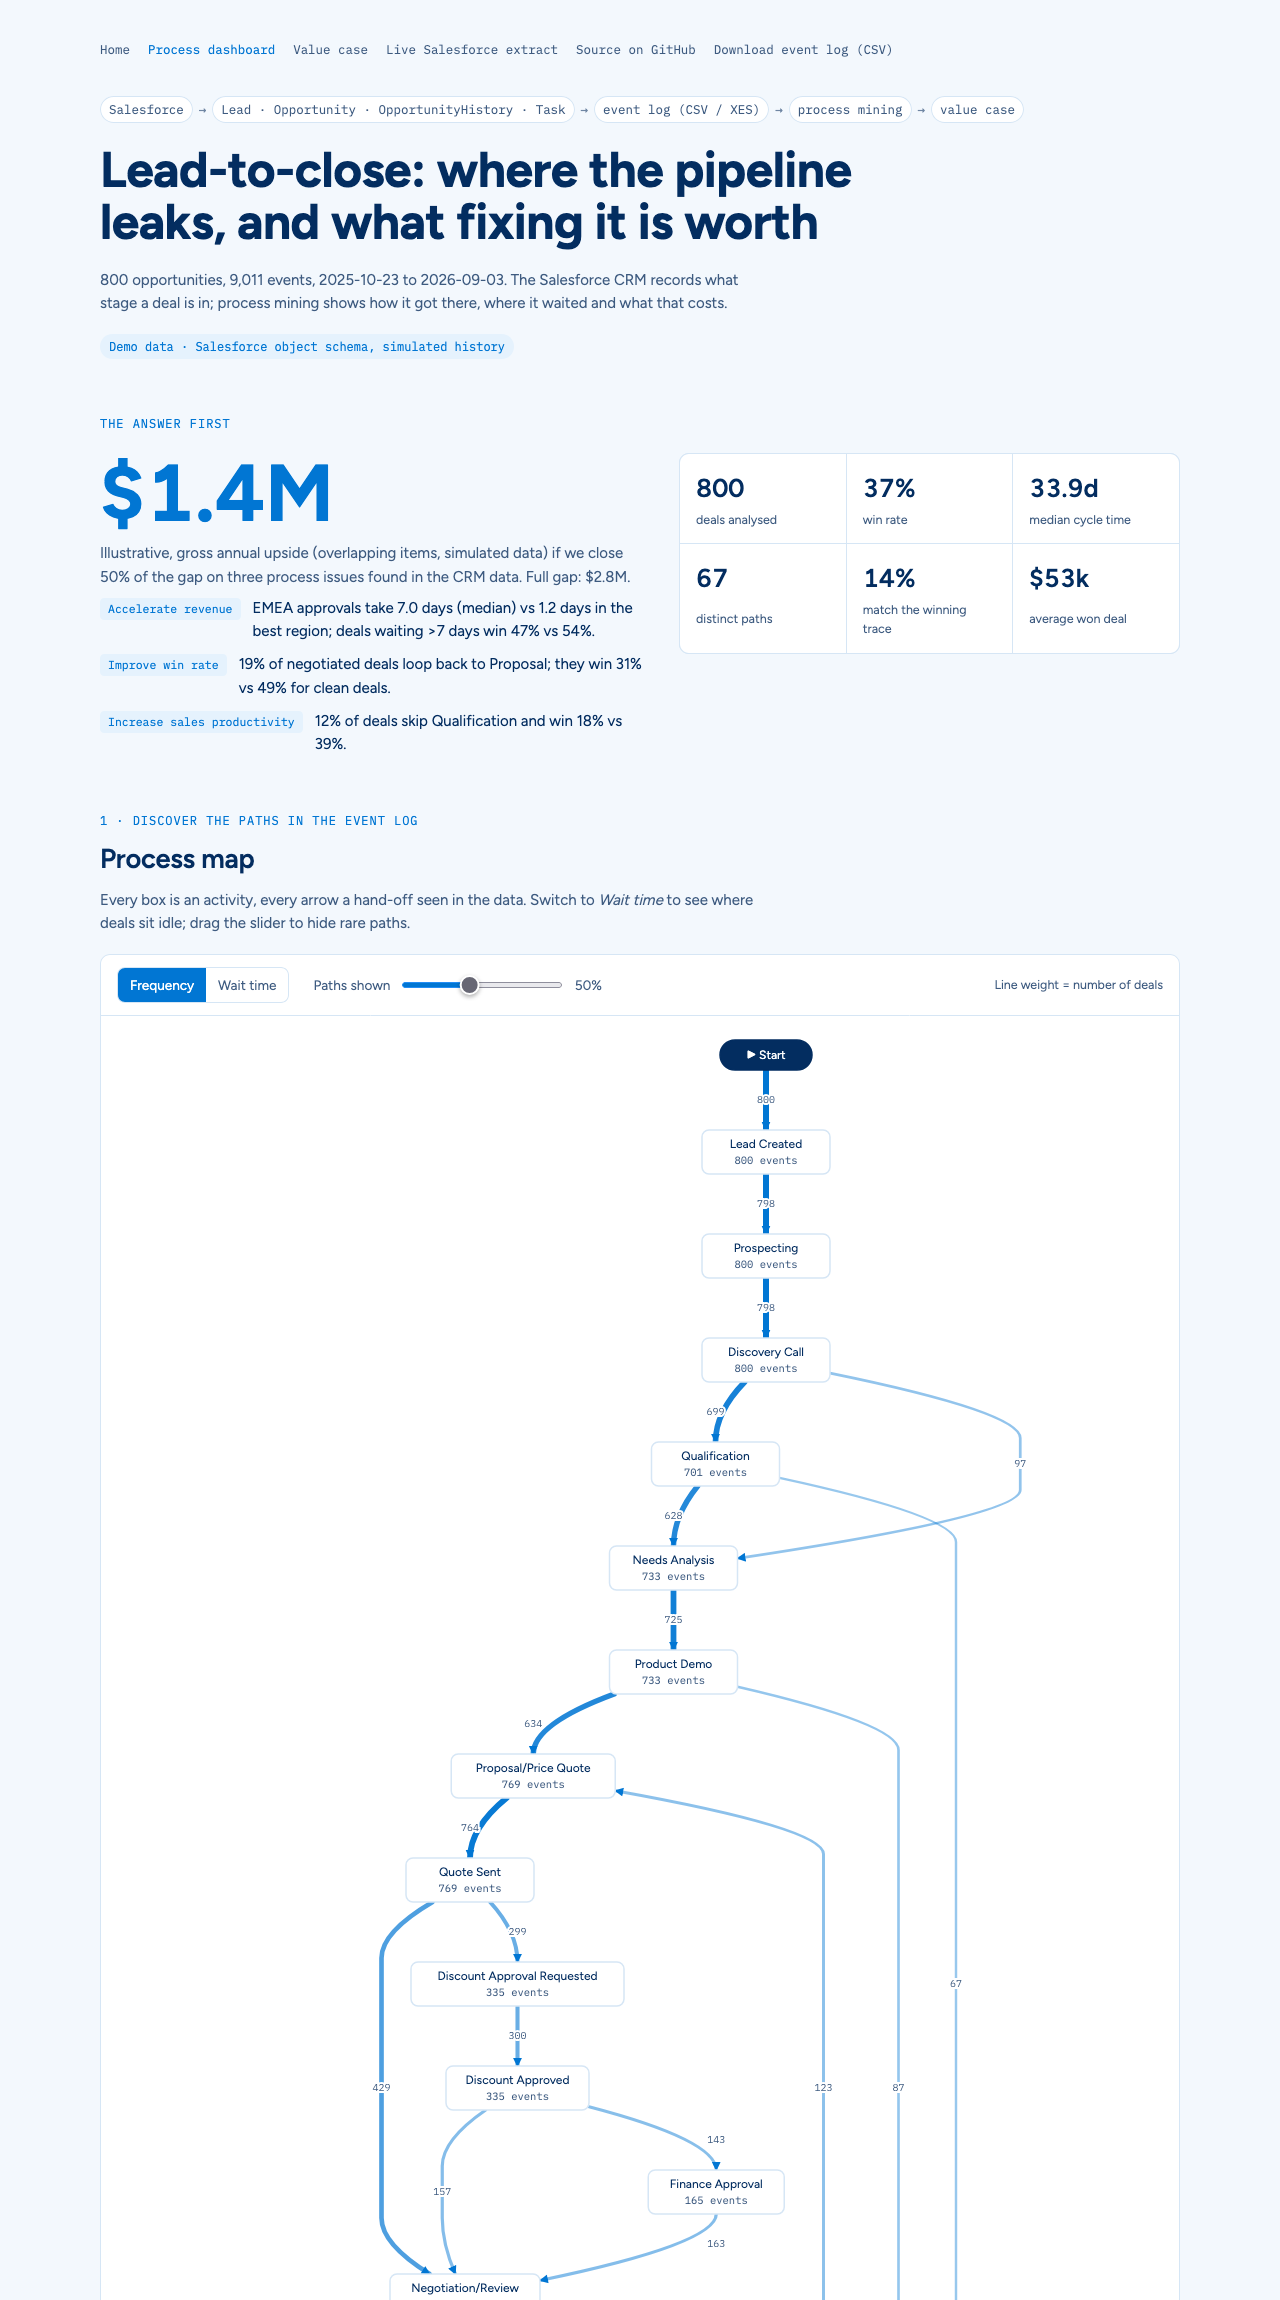
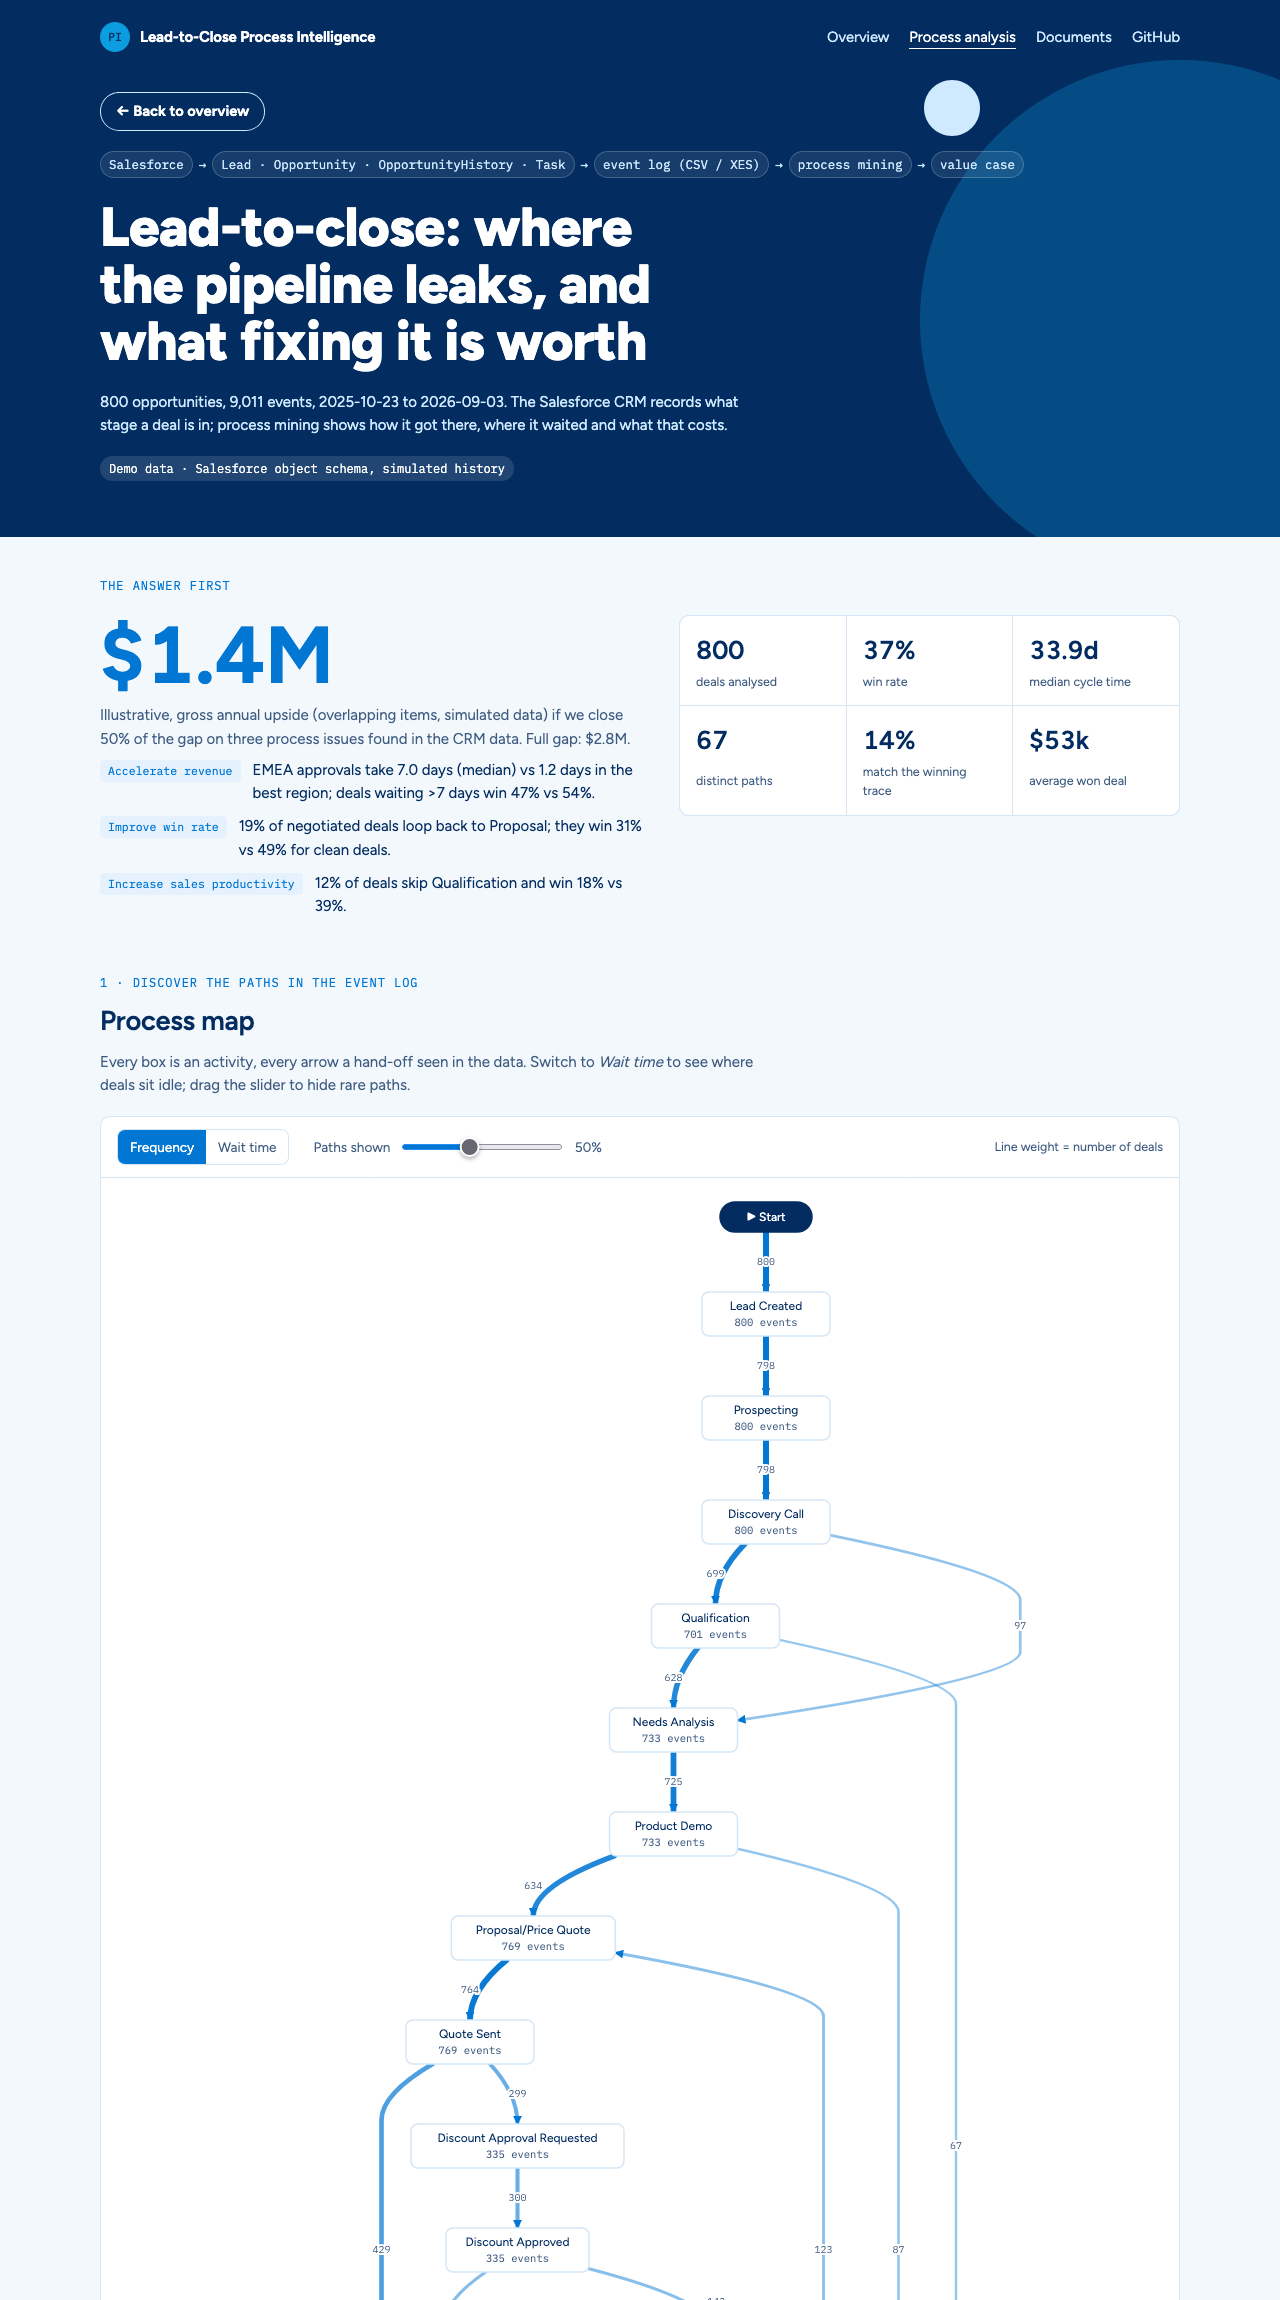
Site: process analysis gets the overview's header band and a back button

diff --git a/site/dashboard.html b/site/dashboard.html
@@ -30,12 +30,18 @@
   --body: "Figtree", system-ui, -apple-system, "Segoe UI", sans-serif;
   --mono: "IBM Plex Mono", ui-monospace, "SF Mono", Menlo, monospace;
   --radius: 10px;
+  --navy: #032d60;
+  --on-navy: #ffffff;
+  --on-navy-2: #cfe9fe;
+  --cloud: #0b9de0;
+  --cloud-soft: #cfe9fe;
 }
 @media (prefers-color-scheme: dark) {
   :root:not([data-theme="light"]) {
     --bg: #071a33; --surface: #0d2747; --ink: #eaf3fd; --ink-2: #a9c3e0; --ink-3: #7894b5;
     --line: #1f3d63; --accent: #4fb3f0; --accent-soft: #12365e;
     --heat-1: #6b3a12; --heat-2: #f08a35; --heat-3: #ffb37a; --good: #5cc983; --bad: #ff8a80;
+    --navy: #041b38; --on-navy: #ffffff; --on-navy-2: #a9d4fb; --cloud: #4fb3f0; --cloud-soft: #12365e;
     color-scheme: dark;
   }
 }
@@ -43,6 +49,7 @@
   --bg: #071a33; --surface: #0d2747; --ink: #eaf3fd; --ink-2: #a9c3e0; --ink-3: #7894b5;
     --line: #1f3d63; --accent: #4fb3f0; --accent-soft: #12365e;
     --heat-1: #6b3a12; --heat-2: #f08a35; --heat-3: #ffb37a; --good: #5cc983; --bad: #ff8a80;
+  --navy: #041b38; --on-navy: #ffffff; --on-navy-2: #a9d4fb; --cloud: #4fb3f0; --cloud-soft: #12365e;
   color-scheme: dark;
 }
 
@@ -68,6 +75,30 @@ section, header.hero { display: grid; grid-template-columns: minmax(0, 1fr); gap
 .nav { display: flex; flex-wrap: wrap; gap: 8px 18px; font-family: var(--mono); font-size: 0.78rem; margin-bottom: -24px; }
 .nav a { color: var(--ink-2); text-decoration: none; }
 .nav a[aria-current], .nav a:hover { color: var(--accent); }
+/* navy header band, shared with the overview page */
+.band { position: relative; overflow: hidden; background: var(--navy); color: var(--on-navy); }
+.band::before, .band::after { content: ""; position: absolute; border-radius: 50%; pointer-events: none; }
+.band::before { width: 520px; height: 520px; right: -160px; top: 60px; background: var(--cloud); opacity: 0.28; }
+.band::after { width: 56px; height: 56px; right: 300px; top: 80px; background: var(--cloud-soft); }
+.band-inner { position: relative; z-index: 1; max-width: 1120px; margin: 0 auto; padding-inline: 20px; padding-block: 22px 56px; display: grid; gap: 40px; }
+.topbar { display: flex; flex-wrap: wrap; gap: 10px 24px; align-items: center; justify-content: space-between; }
+.brand { display: flex; gap: 10px; align-items: center; font-family: var(--display); font-weight: 700; letter-spacing: -0.01em; color: var(--on-navy); text-decoration: none; }
+.brand-mark { width: 30px; height: 30px; border-radius: 50%; background: var(--cloud); display: grid; place-items: center; font-family: var(--mono); font-size: 0.72rem; font-weight: 500; color: var(--navy); }
+.topnav { display: flex; flex-wrap: wrap; gap: 6px 20px; font-size: 0.92rem; }
+.topnav a { color: var(--on-navy-2); text-decoration: none; }
+.topnav a:hover, .topnav a[aria-current] { color: var(--on-navy); }
+.topnav a[aria-current] { text-decoration: underline; text-underline-offset: 6px; }
+.back { display: inline-flex; align-items: center; gap: 8px; width: fit-content; padding: 8px 16px; border-radius: 999px; color: var(--on-navy); text-decoration: none; font-weight: 700; font-size: 0.92rem; box-shadow: inset 0 0 0 1.5px var(--on-navy-2); }
+.back:hover { background: rgba(255, 255, 255, 0.08); }
+.back:focus-visible, .brand:focus-visible, .topnav a:focus-visible { outline: 3px solid var(--cloud); outline-offset: 3px; border-radius: 8px; }
+.band h1 { color: var(--on-navy); font-size: clamp(2.2rem, 5vw, 3.4rem); font-weight: 800; max-width: 22ch; }
+.band .muted { color: var(--on-navy-2); }
+.band .lineage { color: var(--on-navy-2); }
+.band .lineage span { background: rgba(255, 255, 255, 0.08); border-color: rgba(255, 255, 255, 0.2); }
+.band .lineage i { color: var(--on-navy-2); }
+.band .badge { background: rgba(255, 255, 255, 0.12); color: var(--on-navy); }
+@media (max-width: 860px) { .band::before { width: 360px; height: 360px; right: -200px; top: 200px; } .band::after { display: none; } }
+
 .lineage { display: flex; flex-wrap: wrap; gap: 6px; align-items: center; font-family: var(--mono); font-size: 0.78rem; color: var(--ink-2); }
 .lineage span { padding: 3px 8px; border: 1px solid var(--line); border-radius: 999px; background: var(--surface); }
 .lineage i { font-style: normal; color: var(--ink-3); }
@@ -178,21 +209,30 @@ footer { font-size: 0.8rem; color: var(--ink-3); border-top: 1px solid var(--lin
 
 </head>
 <body>
-<div class="wrap">
-  <nav class="nav" aria-label="Pages">
-    <a href="./">Overview</a>
-    <a href="./dashboard.html" id="nav-demo">Process analysis</a>
-    <a href="./#resources">Documents</a>
-    <a href="https://github.com/ch-lukas/salesforce-process-intelligence">GitHub</a>
-  </nav>
-  <header class="hero">
-    <div class="lineage" aria-label="Data lineage">
-      <span>Salesforce</span><i>→</i><span>Lead · Opportunity · OpportunityHistory · Task</span><i>→</i><span>event log (CSV / XES)</span><i>→</i><span>process mining</span><i>→</i><span>value case</span>
+<div class="band">
+  <div class="band-inner">
+    <div class="topbar">
+      <a class="brand" href="./"><span class="brand-mark" aria-hidden="true">PI</span>Lead-to-Close Process Intelligence</a>
+      <nav class="topnav" aria-label="Pages">
+        <a href="./">Overview</a>
+        <a href="./dashboard.html" id="nav-demo">Process analysis</a>
+        <a href="./#resources">Documents</a>
+        <a href="https://github.com/ch-lukas/salesforce-process-intelligence">GitHub</a>
+      </nav>
     </div>
-    <h1 id="headline">Lead-to-close: where the pipeline leaks, and what fixing it is worth</h1>
-    <p class="muted" id="intro"></p>
-    <div class="badge" id="source"></div>
-  </header>
+      <header class="hero">
+          <a class="back" href="./">← Back to overview</a>
+        <div class="lineage" aria-label="Data lineage">
+          <span>Salesforce</span><i>→</i><span>Lead · Opportunity · OpportunityHistory · Task</span><i>→</i><span>event log (CSV / XES)</span><i>→</i><span>process mining</span><i>→</i><span>value case</span>
+        </div>
+        <h1 id="headline">Lead-to-close: where the pipeline leaks, and what fixing it is worth</h1>
+        <p class="muted" id="intro"></p>
+        <div class="badge" id="source"></div>
+      </header>
+  </div>
+</div>
+
+<div class="wrap">
 
   <section aria-labelledby="s-answer">
     <div class="eyebrow">The answer first</div>

diff --git a/dashboard/template.html b/dashboard/template.html
@@ -25,12 +25,18 @@
   --body: "Figtree", system-ui, -apple-system, "Segoe UI", sans-serif;
   --mono: "IBM Plex Mono", ui-monospace, "SF Mono", Menlo, monospace;
   --radius: 10px;
+  --navy: #032d60;
+  --on-navy: #ffffff;
+  --on-navy-2: #cfe9fe;
+  --cloud: #0b9de0;
+  --cloud-soft: #cfe9fe;
 }
 @media (prefers-color-scheme: dark) {
   :root:not([data-theme="light"]) {
     --bg: #071a33; --surface: #0d2747; --ink: #eaf3fd; --ink-2: #a9c3e0; --ink-3: #7894b5;
     --line: #1f3d63; --accent: #4fb3f0; --accent-soft: #12365e;
     --heat-1: #6b3a12; --heat-2: #f08a35; --heat-3: #ffb37a; --good: #5cc983; --bad: #ff8a80;
+    --navy: #041b38; --on-navy: #ffffff; --on-navy-2: #a9d4fb; --cloud: #4fb3f0; --cloud-soft: #12365e;
     color-scheme: dark;
   }
 }
@@ -38,6 +44,7 @@
   --bg: #071a33; --surface: #0d2747; --ink: #eaf3fd; --ink-2: #a9c3e0; --ink-3: #7894b5;
     --line: #1f3d63; --accent: #4fb3f0; --accent-soft: #12365e;
     --heat-1: #6b3a12; --heat-2: #f08a35; --heat-3: #ffb37a; --good: #5cc983; --bad: #ff8a80;
+  --navy: #041b38; --on-navy: #ffffff; --on-navy-2: #a9d4fb; --cloud: #4fb3f0; --cloud-soft: #12365e;
   color-scheme: dark;
 }
 
@@ -63,6 +70,30 @@ section, header.hero { display: grid; grid-template-columns: minmax(0, 1fr); gap
 .nav { display: flex; flex-wrap: wrap; gap: 8px 18px; font-family: var(--mono); font-size: 0.78rem; margin-bottom: -24px; }
 .nav a { color: var(--ink-2); text-decoration: none; }
 .nav a[aria-current], .nav a:hover { color: var(--accent); }
+/* navy header band, shared with the overview page */
+.band { position: relative; overflow: hidden; background: var(--navy); color: var(--on-navy); }
+.band::before, .band::after { content: ""; position: absolute; border-radius: 50%; pointer-events: none; }
+.band::before { width: 520px; height: 520px; right: -160px; top: 60px; background: var(--cloud); opacity: 0.28; }
+.band::after { width: 56px; height: 56px; right: 300px; top: 80px; background: var(--cloud-soft); }
+.band-inner { position: relative; z-index: 1; max-width: 1120px; margin: 0 auto; padding-inline: 20px; padding-block: 22px 56px; display: grid; gap: 40px; }
+.topbar { display: flex; flex-wrap: wrap; gap: 10px 24px; align-items: center; justify-content: space-between; }
+.brand { display: flex; gap: 10px; align-items: center; font-family: var(--display); font-weight: 700; letter-spacing: -0.01em; color: var(--on-navy); text-decoration: none; }
+.brand-mark { width: 30px; height: 30px; border-radius: 50%; background: var(--cloud); display: grid; place-items: center; font-family: var(--mono); font-size: 0.72rem; font-weight: 500; color: var(--navy); }
+.topnav { display: flex; flex-wrap: wrap; gap: 6px 20px; font-size: 0.92rem; }
+.topnav a { color: var(--on-navy-2); text-decoration: none; }
+.topnav a:hover, .topnav a[aria-current] { color: var(--on-navy); }
+.topnav a[aria-current] { text-decoration: underline; text-underline-offset: 6px; }
+.back { display: inline-flex; align-items: center; gap: 8px; width: fit-content; padding: 8px 16px; border-radius: 999px; color: var(--on-navy); text-decoration: none; font-weight: 700; font-size: 0.92rem; box-shadow: inset 0 0 0 1.5px var(--on-navy-2); }
+.back:hover { background: rgba(255, 255, 255, 0.08); }
+.back:focus-visible, .brand:focus-visible, .topnav a:focus-visible { outline: 3px solid var(--cloud); outline-offset: 3px; border-radius: 8px; }
+.band h1 { color: var(--on-navy); font-size: clamp(2.2rem, 5vw, 3.4rem); font-weight: 800; max-width: 22ch; }
+.band .muted { color: var(--on-navy-2); }
+.band .lineage { color: var(--on-navy-2); }
+.band .lineage span { background: rgba(255, 255, 255, 0.08); border-color: rgba(255, 255, 255, 0.2); }
+.band .lineage i { color: var(--on-navy-2); }
+.band .badge { background: rgba(255, 255, 255, 0.12); color: var(--on-navy); }
+@media (max-width: 860px) { .band::before { width: 360px; height: 360px; right: -200px; top: 200px; } .band::after { display: none; } }
+
 .lineage { display: flex; flex-wrap: wrap; gap: 6px; align-items: center; font-family: var(--mono); font-size: 0.78rem; color: var(--ink-2); }
 .lineage span { padding: 3px 8px; border: 1px solid var(--line); border-radius: 999px; background: var(--surface); }
 .lineage i { font-style: normal; color: var(--ink-3); }
@@ -171,21 +202,30 @@ footer { font-size: 0.8rem; color: var(--ink-3); border-top: 1px solid var(--lin
 }
 </style>
 
-<div class="wrap">
-  <nav class="nav" aria-label="Pages">
-    <a href="./">Overview</a>
-    <a href="./dashboard.html" id="nav-demo">Process analysis</a>
-    <a href="./#resources">Documents</a>
-    <a href="https://github.com/ch-lukas/salesforce-process-intelligence">GitHub</a>
-  </nav>
-  <header class="hero">
-    <div class="lineage" aria-label="Data lineage">
-      <span>Salesforce</span><i>→</i><span>Lead · Opportunity · OpportunityHistory · Task</span><i>→</i><span>event log (CSV / XES)</span><i>→</i><span>process mining</span><i>→</i><span>value case</span>
+<div class="band">
+  <div class="band-inner">
+    <div class="topbar">
+      <a class="brand" href="./"><span class="brand-mark" aria-hidden="true">PI</span>Lead-to-Close Process Intelligence</a>
+      <nav class="topnav" aria-label="Pages">
+        <a href="./">Overview</a>
+        <a href="./dashboard.html" id="nav-demo">Process analysis</a>
+        <a href="./#resources">Documents</a>
+        <a href="https://github.com/ch-lukas/salesforce-process-intelligence">GitHub</a>
+      </nav>
     </div>
-    <h1 id="headline">Lead-to-close: where the pipeline leaks, and what fixing it is worth</h1>
-    <p class="muted" id="intro"></p>
-    <div class="badge" id="source"></div>
-  </header>
+      <header class="hero">
+          <a class="back" href="./">← Back to overview</a>
+        <div class="lineage" aria-label="Data lineage">
+          <span>Salesforce</span><i>→</i><span>Lead · Opportunity · OpportunityHistory · Task</span><i>→</i><span>event log (CSV / XES)</span><i>→</i><span>process mining</span><i>→</i><span>value case</span>
+        </div>
+        <h1 id="headline">Lead-to-close: where the pipeline leaks, and what fixing it is worth</h1>
+        <p class="muted" id="intro"></p>
+        <div class="badge" id="source"></div>
+      </header>
+  </div>
+</div>
+
+<div class="wrap">
 
   <section aria-labelledby="s-answer">
     <div class="eyebrow">The answer first</div>
